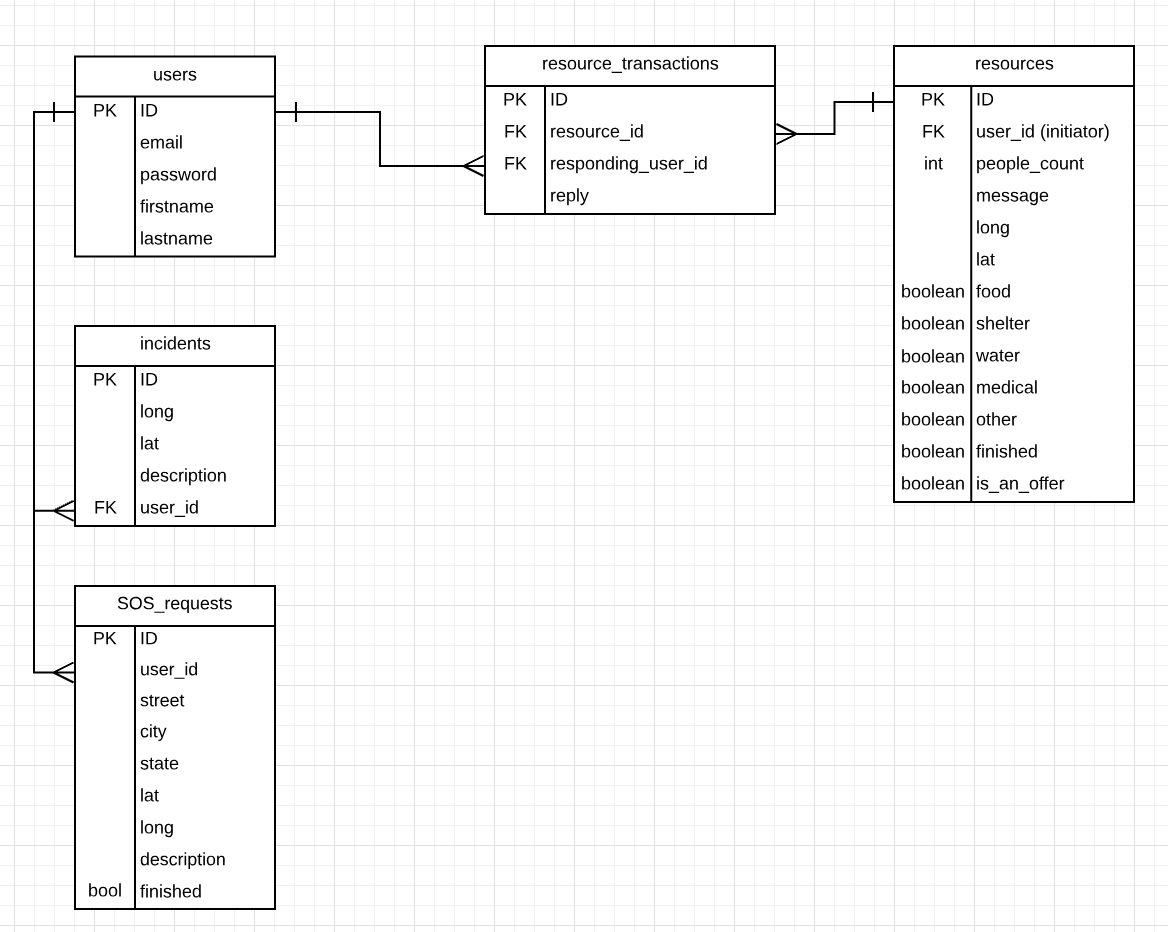
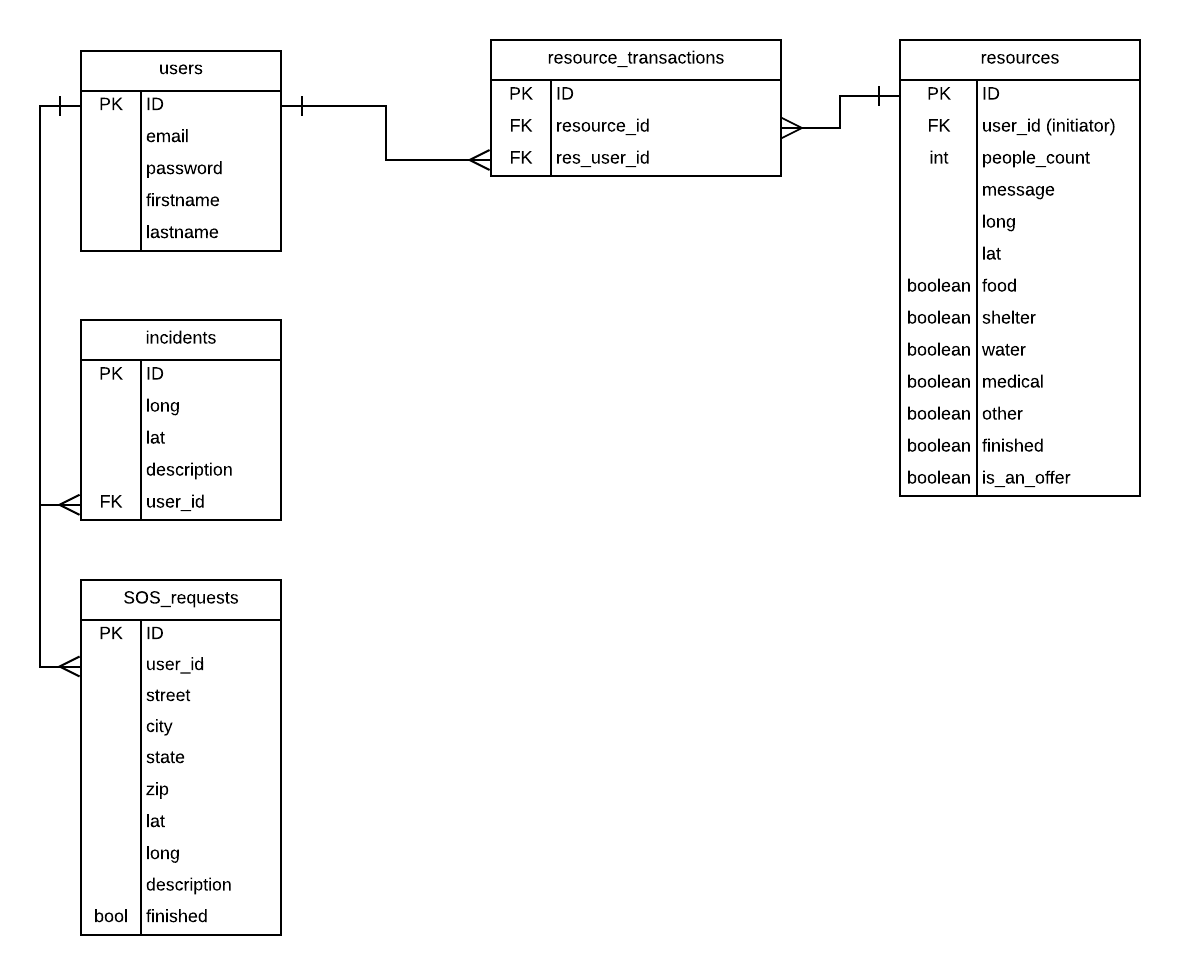
fixed sos request

diff --git a/src/db/seeds/04_sos_requests.js b/src/db/seeds/04_sos_requests.js
@@ -4,28 +4,62 @@ const {
 
 const table = 'sos_requests'
 
-
 exports.seed = knex => {
   return knex(table).insert([{
     id: 1,
-    message: "I can offer help",
-    status: "inprogress",
-    offer_food: true,
-    offer_water: false,
-    offer_shelter: false,
-    offer_medical: false,
-    request_id: 1,
+    street: '233 Melrose Ave',
+    city: 'San Francisco',
+    state: 'CA',
+    zip: 94127,
+    lat: 37.733777,
+    long: -122.447576,
+    description: 'There is so much smoke in our area. Please help!',
+    finished: false,
     user_id: 1
   }, {
     id: 2,
-    message: "I am coming to help out.",
-    status: "inprogress",
-    offer_food: false,
-    offer_water: false,
-    offer_shelter: true,
-    offer_medical: false,
-    request_id: 2,
+    street: '700 Hoffman St',
+    city: 'Daly City',
+    state: 'CA',
+    zip: 94014,
+    lat: 37.688643,
+    long: -122.45121,
+    description: 'After the fire, our living room was destroyed. Can someone lend a helping hand?',
+    finished: false,
     user_id: 2
+  }, {
+    id: 3,
+    street: '1386 33rd Ave',
+    city: 'San Francisco',
+    state: 'CA',
+    zip: 94122,
+    lat: 37.761317,
+    long: -122.491757,
+    description: 'My house is destroyed. I am trying to clean up the aftermath, but I might faint. Can someone look out for me?',
+    finished: false,
+    user_id: 6
+  }, {
+    id: 4,
+    street: '1419 Cole St',
+    city: 'San Francisco',
+    state: 'CA',
+    zip: 94117,
+    lat: 37.761317,
+    long: -122.449185,
+    description: 'I have really bad headeache. It is not urgent, but it hurts so much.',
+    finished: false,
+    user_id: 7
+  }, {
+    id: 5,
+    street: '815 Buena Vista Ave W',
+    city: 'San Francisco',
+    state: 'CA',
+    zip: 94117,
+    lat: 37.770002,
+    long: -122.442318,
+    description: 'The front yard is torched. I am so nauseous.',
+    finished: false,
+    user_id: 8
   }]).then(() => {
     return knex.raw(`SELECT setval('${table}_id_seq', (SELECT MAX(id) FROM ${table}));`)
   });;

diff --git a/src/db/seeds/03_resources.js b/src/db/seeds/03_resources.js
@@ -23,8 +23,8 @@ exports.seed = knex => {
     id: 2,
     people_count: 3,
     message: "My family is looking for a place to stay. Our house is burned down.",
-    latitude: 33.731426,
-    longitude: -116.099620,
+    lat: 37.688643,
+    long: -122.45121,
     food: false,
     water: false,
     shelter: true,
@@ -35,10 +35,10 @@ exports.seed = knex => {
     user_id: 2
   }, {
     id: 3,
-    people_count: 4,
+    people_count: 5,
     message: "Hi there, I have some food, water and shelter. Let me know if you are intersted.",
-    latitude: 33.738679,
-    longitude: -117.209734,
+    lat: 37.724395,
+    long: -122.49313,
     food: true,
     water: true,
     shelter: true,
@@ -50,10 +50,10 @@ exports.seed = knex => {
   }, {
     id: 4,
     people_count: 5,
-    message: "I can give you some water and food.",
-    latitude: 37.740563,
-    longitude: -122.446198,
-    food: true,
+    message: "I can give you some water.",
+    lat: 37.799306,
+    long: -122.269284,
+    food: false,
     water: true,
     shelter: false,
     medical: false,
@@ -65,8 +65,8 @@ exports.seed = knex => {
     id: 5,
     people_count: 3,
     message: "I have some first-aid kits that I can give to anyone",
-    latitude: 37.732423,
-    longitude: -122.452726,
+    lat: 37.709186,
+    long: -122.407986,
     food: false,
     water: false,
     shelter: false,

diff --git a/src/models/helpers.js b/src/models/helpers.js
@@ -1,0 +1,28 @@
+const getDistance = (a, b) => {
+  const R = 3959 // miles
+  const φ1 = a.lat * (Math.PI / 180)
+  const φ2 = b.lat * (Math.PI / 180)
+  const Δφ = φ2 - φ1
+  const Δλ = (b.long - a.long) * (Math.PI / 180)
+  const α = Math.sin(Δφ / 2) * Math.sin(Δφ / 2) +
+    Math.cos(φ1) * Math.cos(φ2) *
+    Math.sin(Δλ / 2) * Math.sin(Δλ / 2)
+  const c = 2 * Math.atan2(Math.sqrt(α), Math.sqrt(1 - α))
+  const d = R * c
+  return d
+}
+
+const filterByLocation = (requests, { lat, long, range }) => {
+  return requests.filter(request => {
+    const distance = getDistance({ lat: request.lat, long: request.long }, { lat: parseFloat(lat), long: parseFloat(long) })
+    console.log('distance', distance)
+    const selectedRange = range || 20
+    if (distance < selectedRange) return true
+  })
+}
+
+
+module.exports = {
+  getDistance,
+  filterByLocation
+}

diff --git a/src/db/seeds/05_resource_transactions.js b/src/db/seeds/05_resource_transactions.js
@@ -7,20 +7,16 @@ const table = 'resource_transactions'
 exports.seed = knex => {
   return knex(table).insert([{
     id: 1,
-    reply: "I can offer help",
-    resource_id: "inprogress",
-
-    responding_user_id: 1
+    resource_id : 1,
+    res_user_id: 4
   }, {
     id: 2,
-    message: "I am coming to help out.",
-    status: "inprogress",
-    offer_food: false,
-    offer_water: false,
-    offer_shelter: true,
-    offer_medical: false,
-    request_id: 2,
-    user_id: 2
+    resource_id: 2,
+    res_user_id: 4
+  }, {
+    id: 3,
+    resource_id: 4,
+    res_user_id: 8
   }]).then(() => {
     return knex.raw(`SELECT setval('${table}_id_seq', (SELECT MAX(id) FROM ${table}));`)
   });;

diff --git a/src/db/seeds/01_users.js b/src/db/seeds/01_users.js
@@ -34,6 +34,24 @@ exports.seed = knex => {
     lastname: 'Oxford',
     email: 'nancy@gmail.com',
     password: hashSync('pass'),
+  }, {
+    id: 6,
+    firstname: 'Halsey',
+    lastname: 'Rain',
+    email: 'halsey@gmail.com',
+    password: hashSync('pass'),
+  }, {
+    id: 7,
+    firstname: 'Lauren',
+    lastname: 'Large',
+    email: 'lauren@gmail.com',
+    password: hashSync('pass'),
+  }, {
+    id: 8,
+    firstname: 'Rain',
+    lastname: 'Forest',
+    email: 'rain@gmail.com',
+    password: hashSync('pass'),
   }]).then(() => {
     return knex.raw(`SELECT setval('${table}_id_seq', (SELECT MAX(id) FROM ${table}));`)
   });

diff --git a/src/db/migrations/20181017140812_resource_transactions.js b/src/db/migrations/20181017140812_resource_transactions.js
@@ -4,10 +4,9 @@ exports.up = knex => {
   return knex.schema.createTable(table, table => {
     table.increments()
     table.integer('resource_id').notNullable().defaultsTo(0)
+    table.integer('res_user_id').notNullable().defaultsTo(0)
     table.foreign('resource_id').references('resources.id').onDelete('CASCADE')
-    table.string('reply').notNullable().defaultsTo('')
-    table.integer('responding_user_id').notNullable().defaultsTo(0)
-    table.foreign('responding_user_id').references('users.id').onDelete('CASCADE')
+    table.foreign('res_user_id').references('users.id').onDelete('CASCADE')
     table.timestamps(true, true)
   })
 }

diff --git a/src/models/sos_requests.js b/src/models/sos_requests.js
@@ -1,0 +1,25 @@
+const db = require('../db/knex')
+const { filterByLocation } = require('./helpers')
+
+const joinTbs = () => {
+  return db('sos_requests')
+    .select('sos_requests.id AS sos_id', '*')
+    .join('users', 'users.id', '=', 'sos_requests.user_id')
+}
+
+// getAll SOS requests by giving lat, long & range (defaults to 20 miles)
+const getAll = async (query) => {
+  const sosRequests = await joinTbs()
+  const nearbyReq = filterByLocation(sosRequests, query)
+  return nearbyReq
+}
+
+// getOne SOS request
+const getOne = () => {
+
+}
+
+module.exports = {
+  getAll,
+  getOne
+}

diff --git a/src/controllers/sos_requests.js b/src/controllers/sos_requests.js
@@ -1,0 +1,22 @@
+const model = require('../models/sos_requests')
+
+// get all sos requests in 20 miles range nearby 
+const getAll = async (req, res, next) => {
+  try {
+    let data = await model.getAll(req.query)
+    res.send({
+      data
+    })
+  } catch (e) {
+    console.error(e)
+    next({
+      status: 404,
+      error: 'Could not retrieve all requests'
+    })
+  }
+}
+
+
+module.exports = {
+  getAll
+}

diff --git a/app.js b/app.js
@@ -16,6 +16,8 @@ app.use(bodyParser.json())
 app.use(cors())
 
 app.use('/incidents', require('./src/routes/incidents'))
+app.use('/sosrequests', require('./src/routes/sos_requests'))
+
 app.use('/requests', require('./src/routes/requests'))
 app.use('/api/users', require('./src/routes/users'))
 app.use('/api/:userId/incidents', require('./src/routes/incidents_user'))

diff --git a/src/db/migrations/20181017140558_sos_requests.js b/src/db/migrations/20181017140558_sos_requests.js
@@ -6,6 +6,7 @@ exports.up = knex => {
     table.string('street').notNullable().defaultsTo('')
     table.string('city').notNullable().defaultsTo('')
     table.string('state').notNullable().defaultsTo('')
+    table.integer('zip').notNullable()
     table.float('lat')
     table.float('long')
     table.string('description').notNullable()

diff --git a/src/db/seeds/00_drop.js b/src/db/seeds/00_drop.js
@@ -2,6 +2,7 @@ exports.seed = async knex => {
   // Deletes ALL existing entries
   await knex('users').del()
   await knex('incidents').del()
-  await knex('requests').del()
-  await knex('helpers_requests').del()
+  await knex('resources').del()
+  await knex('sos_requests').del()
+  await knex('resource_transactions').del()
 };

diff --git a/src/routes/sos_requests.js b/src/routes/sos_requests.js
@@ -1,0 +1,8 @@
+const router = require('express').Router()
+const ctrl = require('../controllers/sos_requests')
+
+// get all sos requests in 20 miles range nearby 
+router.get('/', ctrl.getAll)
+router.get('/:')
+
+module.exports = router
